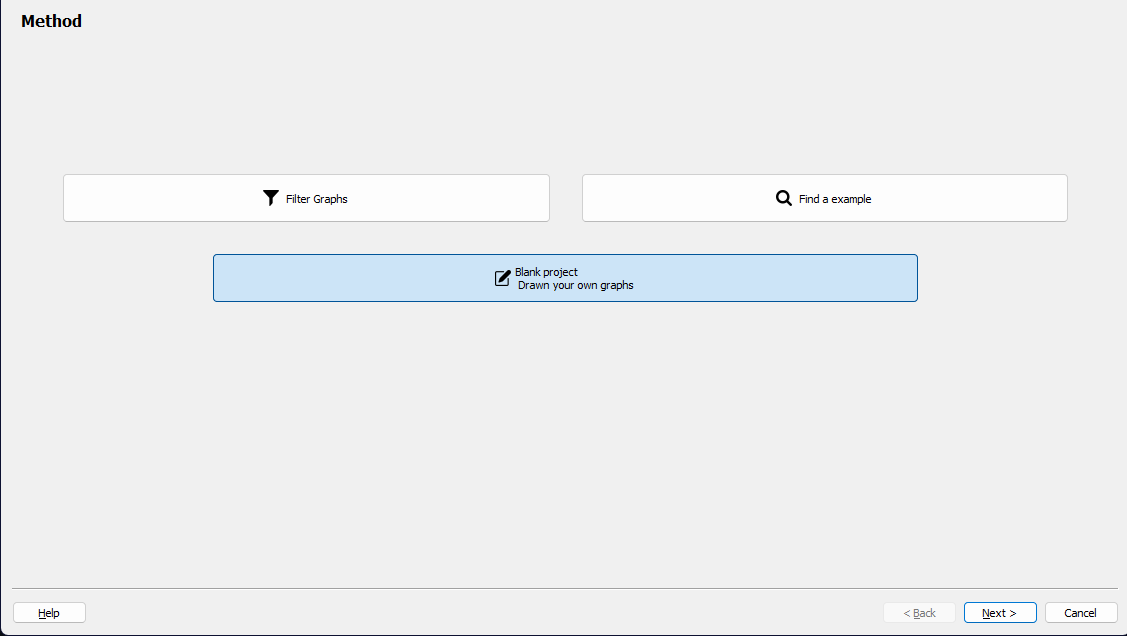
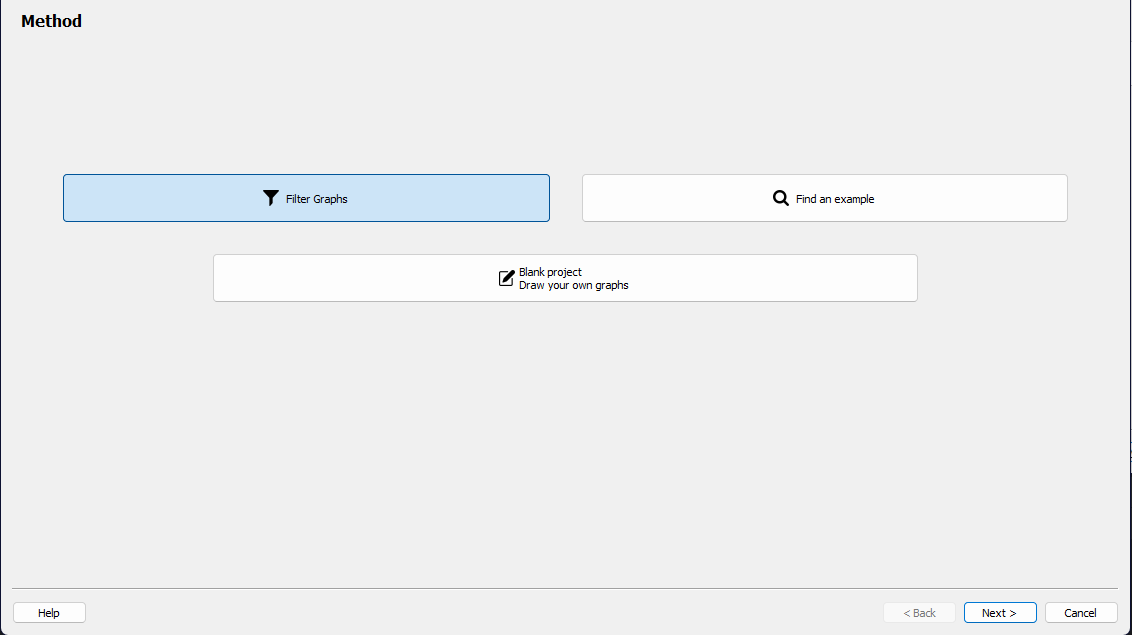
Typo on Wizard Method (#405)

diff --git a/source/view/wizard/pages/method_page.py b/source/view/wizard/pages/method_page.py
@@ -31,7 +31,7 @@ class MethodPage(QWizardPage):
         self.filter_button.setCheckable(True)
         self.filter_button.setObjectName('filter')
 
-        self.find_example_button.setText("  Find a example")
+        self.find_example_button.setText("  Find an example")
         self.find_example_button.setIcon(Icon("zoom"))
         self.find_example_button.setMinimumHeight(50)
         self.find_example_button.setMinimumWidth(50)
@@ -39,7 +39,7 @@ class MethodPage(QWizardPage):
         self.find_example_button.setObjectName('find_example')
 
         self.blank_project.setText(" Blank project \n "
-                                   " Drawn your own graphs")
+                                   "Draw your own graphs")
         
         self.blank_project.setIcon(Icon("edit"))
         self.blank_project.setMinimumHeight(50)
